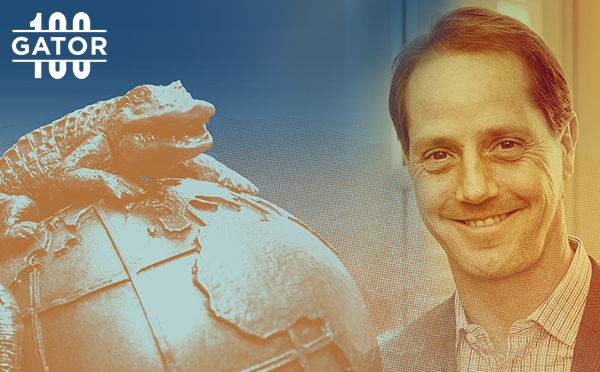
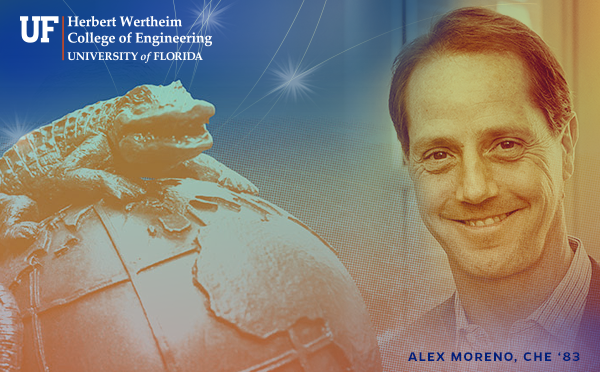
create V2 of moreno eblast with quote/ID line in header image

diff --git a/gator100/2018/moreno2.html b/gator100/2018/moreno2.html
@@ -133,12 +133,12 @@
 		}
 		td.lead {
 			font-family:'gentona', Helvetica, Arial, sans-serif;
-			font-weight:300;
 			font-style: italic;
+			padding: 10px 0 0 0;
 			letter-spacing:1px!important; 
 			font-size: 14px!important;
 			line-height: 18px!important;
-			color: #ffffff;
+			color: #00529b;
 
 		}
 		td.body {
@@ -310,27 +310,15 @@
 				<table border="0" align="center" cellpadding="0" cellspacing="0" class="container-table" style="font-family:Arial, Helvetica, sans-serif; font-size:16px;">
 					<tr>
 						<td class="img" bgcolor="#ffffff">
-							<a href="https://test.eng.ufl.edu/newengineer/honors-awards/gator100-2018-recognizes-uf-engineers/"><img src="https://www.eng.ufl.edu/eblasts/gator100/2018/images/moreno-header.png" width="600" height="372" border="0" align="left" class="header-image" alt="Alex Moreno, Bachelor of Science in Chemical Engineering, Class of '83" /></a>
-						</td>
-					</tr>
-					<tr>
-						<td class="content-container" bgcolor="#00529b" style="padding-top:15px;">
-							<table border="0" width="100%" cellpadding="0" cellspacing="0" style="border-collapse:collapse;">
-								<tr>
-									<td class="lead" valign="top">
-										Gator100 celebrates the world&rsquo;s &ldquo;Fastest Growing Gator Companies&rdquo; and recognizes UF Engineering alumnus and serial entrepreneur Alex Moreno with the Pinnacle Award.
-									</td>
-								</tr>
-							</table>
+							<a href="https://test.eng.ufl.edu/newengineer/honors-awards/gator100-2018-recognizes-uf-engineers/"><img src="https://www.eng.ufl.edu/eblasts/gator100/2018/images/moreno-header-quote.png" width="600" height="372" border="0" align="left" class="header-image" alt="Alex Moreno, Bachelor of Science in Chemical Engineering, Class of '83" /></a>
 						</td>
 					</tr>
 					<tr>
 						<td class="content-container" bgcolor="#ffffff">
 							<table border="0" width="100%" cellpadding="0" cellspacing="0" style="border-collapse:collapse;">
 								<tr>
-									<td class="h3" valign="top">
-										“My education in chemical engineering (has) prepared me to advance my own companies.”<br />
-										&ndash;Alex Moreno, Bachelor of Science in Chemical Engineering, Class of &lsquo;83
+									<td class="lead" valign="top">
+										Gator100 celebrates the world&rsquo;s &ldquo;Fastest Growing Gator Companies&rdquo; and recognizes UF Engineering alumnus and serial entrepreneur Alex Moreno with the Pinnacle Award.
 									</td>
 								</tr>
 								<tr>
